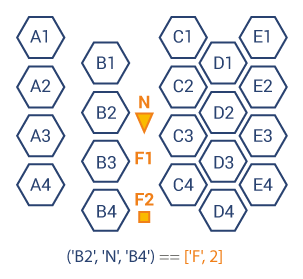
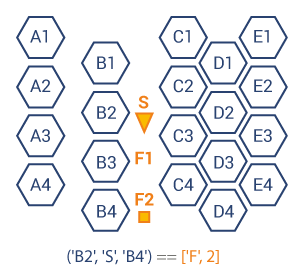
illustrations

Changed region(s): [[0.3267, 0.8889, 0.5347, 0.9462], [0.5941, 0.8889, 0.7426, 0.9462], [0.4455, 0.3441, 0.505, 0.4014]]

diff --git a/info/task_description.html b/info/task_description.html
@@ -37,7 +37,7 @@ Find distance and direction to enemy in a HEX-grid
 <pre class="brush: python">{% if interpreter.slug == "js-node" %}
 
 {% else %}
-find_enemy('B2', 'N', 'B4') == ['F', 2]
+find_enemy('B2', 'S', 'B4') == ['F', 2]
 {% endif %}</pre>
 </div>
 
